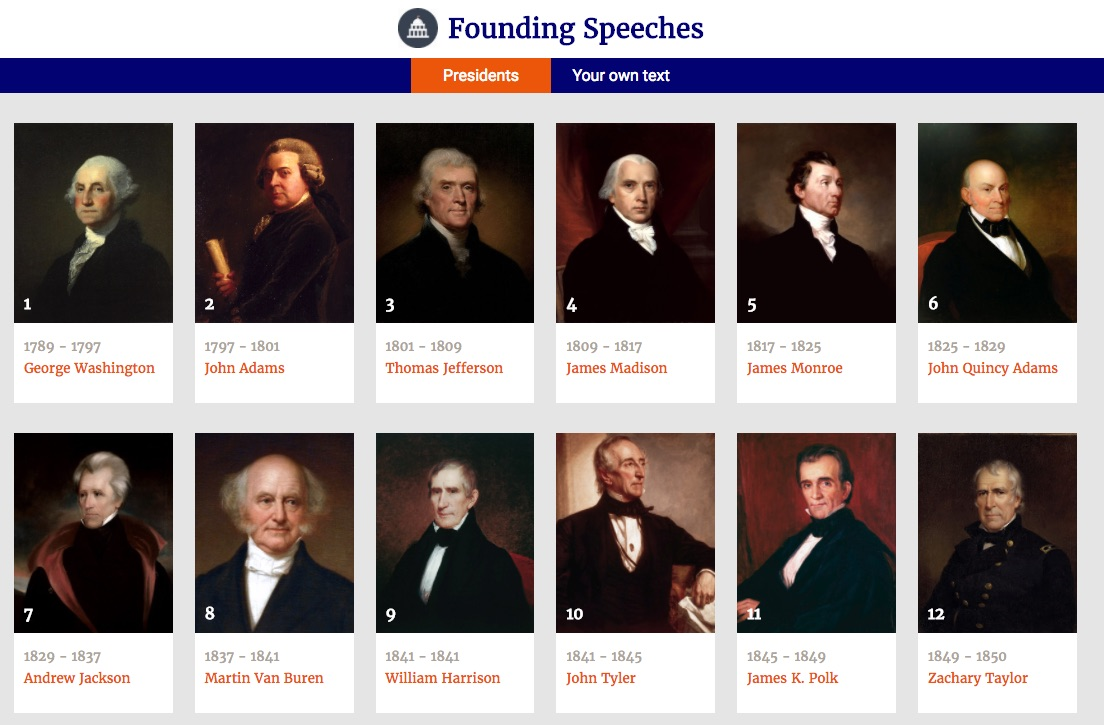
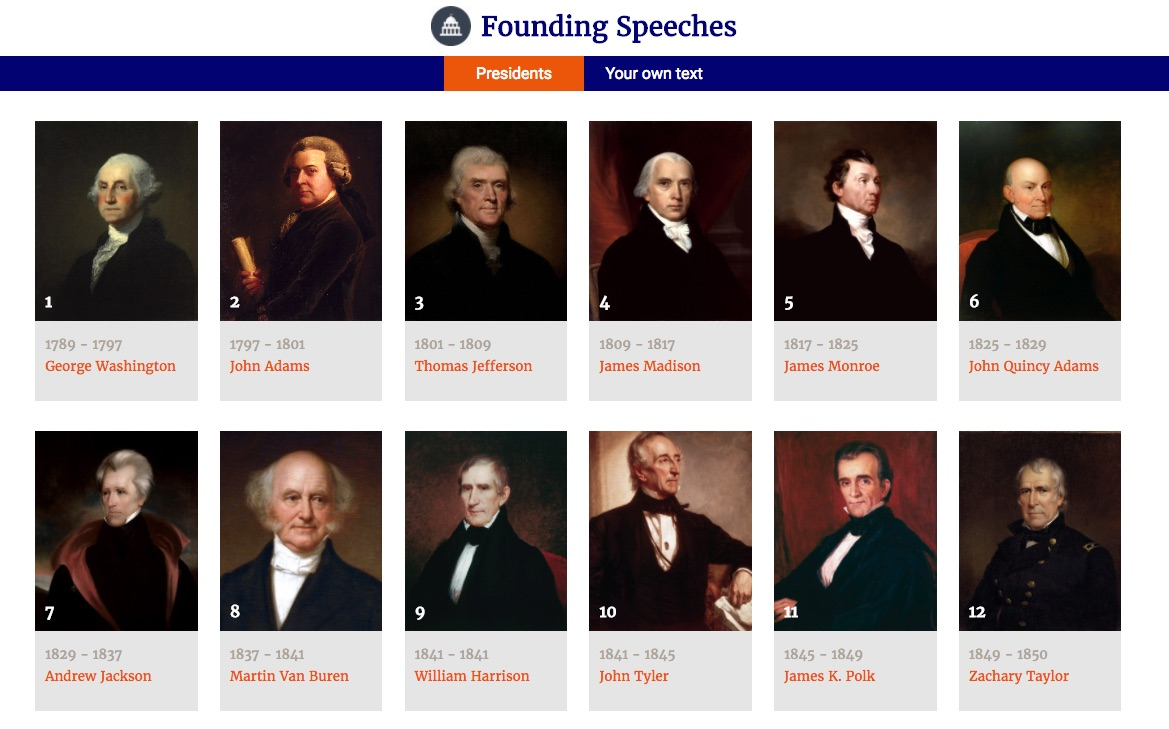
README screenshot and minor css fixes

diff --git a/src/components/watson-container/watson-detail-container-responsive.css b/src/components/watson-container/watson-detail-container-responsive.css
@@ -28,7 +28,7 @@
 
     .word-count-infobox-container {
         top: 85px;
-        left: 100px;
+        left: 80px;
         width: 200px;
     }
 }

diff --git a/src/components/watson-container/watson-detail-container.css b/src/components/watson-container/watson-detail-container.css
@@ -65,7 +65,6 @@
 }
 
 .word-count-infobox{
-    width: 270px;
     background-color: #00b4a0;
     padding: 15px;
 }

diff --git a/README.md b/README.md
@@ -4,6 +4,11 @@ In-depht analysis of presidential speeches.
 ## Overview
 This web app houses an extensive database of US presidents and their speech transcripts. Not only can the user quickly find the important speeches throughout history, the transcripts are also analyzied by IBM Watson's Personality Insight to return the president's Big Five personality attributes, Needs, and Values. Furthermore, the user can try the Watson API on their own text of choice.
 
+## Watson Analysis
+Watson's Personality Insight specializes in analyzing conversational texts. While this app is only meant to offer some fun/interesting insight on the possible personality of our presidents, there are a wide range of real-world use cases for Personality Insight, including: targeted marketing, personal connections, and customer care. To learn more, visit https://www.ibm.com/watson/developercloud/doc/personality-insights/usecases.html.
+
+![alt tag](https://github.com/anhhtle/founding-speeches/blob/master/public/img/watson-screenshot.png)
+
 ## Working version and screenshot
 Use this link to try the app for yourself! https://founding-speeches.herokuapp.com/
 
